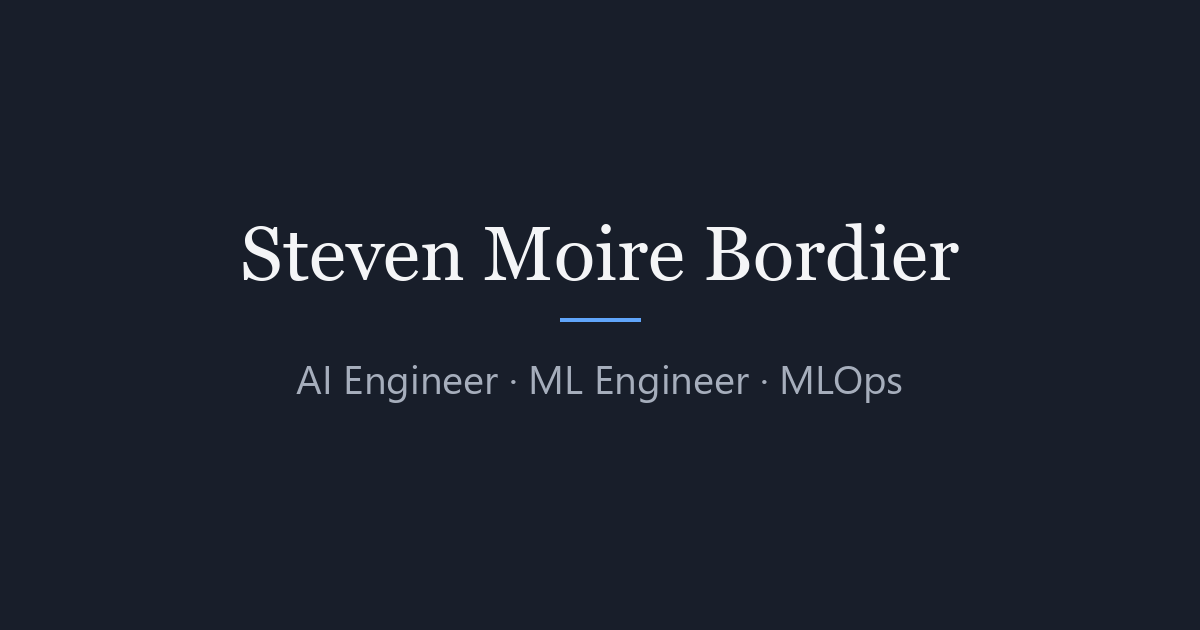
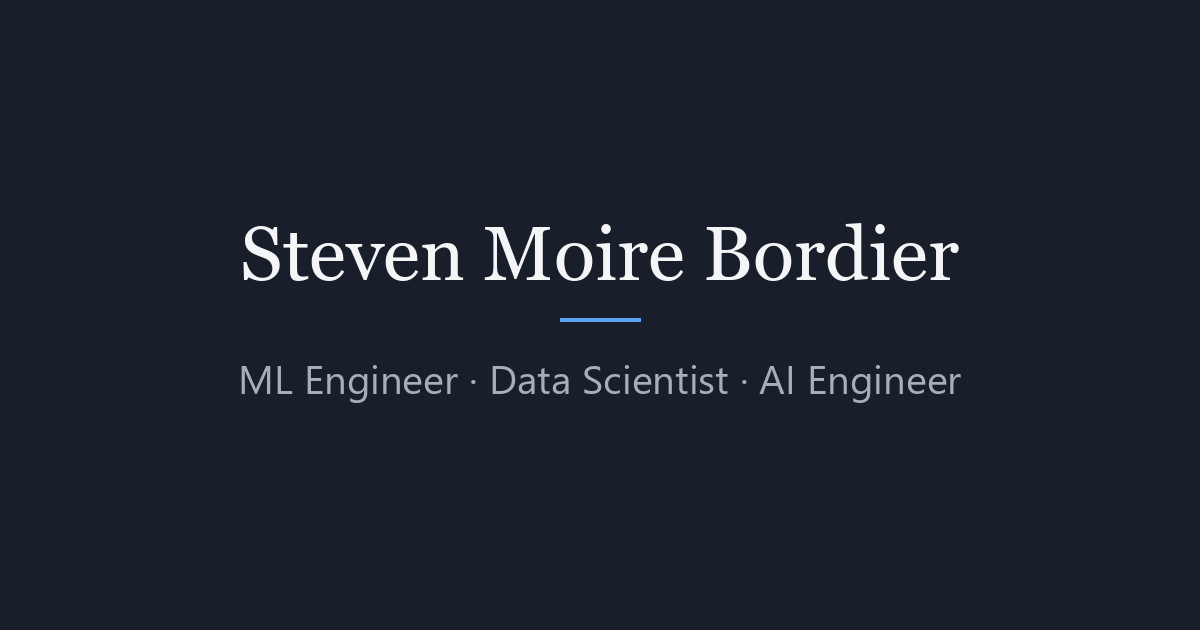
feat(about): background and teaching in my own words, new headline
- About and README: background and teaching paragraphs rewritten from my
  own answers (teaching to data, accounting/SQL, BTS SIO, business view,
  roles sought, why passing knowledge on matters), EN translation.
- Headline: ML Engineer · Data Scientist · AI Engineer (site tagline,
  About, README, social preview image, SEO description).
- Two remaining "X, not Y" constructions removed (GenAI 2023, GxP).

Changed region(s): [[0.185, 0.573, 0.8017, 0.6333]]

diff --git a/_tabs/about.md b/_tabs/about.md
@@ -25,7 +25,7 @@ html[data-lang="fr"] .lang-block.lang-fr { display: block; }
 <div class="lang-block lang-en" markdown="1">
 
 ## Steven Moire Bordier
-**AI Engineer · ML Engineer · MLOps**
+**ML Engineer · Data Scientist · AI Engineer**
 
 [steven.bordier@gmail.com](mailto:steven.bordier@gmail.com) · [LinkedIn](https://www.linkedin.com/in/steven-moirebordier-490556108/) · [GitHub](https://github.com/Steven-Moire)
 
@@ -33,11 +33,15 @@ html[data-lang="fr"] .lang-block.lang-fr { display: block; }
 
 ## Background
 
-Former teacher turned AI Engineer, with 2 years hands-on in a regulated industrial environment (GxP, pharmaceutical compliance). Projects shipped in production on an on-premise private cloud: a GxP document clustering tool and an LLM document-generation pipeline. Also a proof of concept for anomaly detection on cold-chain equipment.
+Former economics and management teacher who moved into data, with a pedagogical and andragogical mindset. I first went back to studying data analysis, which fits with economics and management. With my accounting and finance specialty, I had already done some SQL, and I taught students in a BTS SIO (a French IT services degree). I had also built my own PC and, when I was younger, done a bit of programming: so I went for it, because it really appealed to me and it fit with what I had done and with who I was.
 
-My background in education shapes how I approach technical work: I design for clarity, document my reasoning, and make architectural choices I can defend.
+Teaching first gives me the business side: the client or the company that hires me has a problem, and it has to be solved with performance in mind, which means effectiveness and efficiency. No point doing deep learning if a VBA macro is enough.
 
-**Available now** · open to AI Engineer, ML Engineer, MLOps roles.
+2 years as an apprentice in an international pharmaceutical group, in a regulated industrial environment (GxP, compliance). Projects shipped in production on an on-premise private cloud: a GxP document clustering tool and an LLM document-generation pipeline. Also a proof of concept for anomaly detection on cold-chain equipment.
+
+I am looking for a data scientist role, rather focused on model training. But during my apprenticeship I loved the whole architecture side, so I am also looking at AI engineer roles.
+
+**Available now** · open to ML Engineer, Data Scientist, AI Engineer roles.
 
 ---
 
@@ -53,7 +57,11 @@ My background in education shapes how I approach technical work: I design for cl
 
 ## Teaching & Knowledge Sharing
 
-Before data, I taught economics and management for 2 years, and I still teach, to adults now: presentations to teams on what AI is and what it is not, short workshops on computer vision and digital twins, and at group level two prompt-optimization workshops (~50 participants) and a webinar on Chinese LLMs (110 participants). The same habit shaped my projects: the performance gain of the document-generation pipeline came from user feedback, not from the model.
+Before data, I taught economics and management for 2 years, and I keep passing knowledge on: presentations to teams on what AI is and what it is not, short workshops on computer vision and digital twins, and at group level two prompt-optimization workshops (~50 participants) and a webinar on Chinese LLMs (110 participants).
+
+These are complex notions, sometimes disconnected from our everyday reality. I think we are living through a turning point, like the one we went through with the Internet. The goal is to support people, help them and make things understandable, because a tool that is not understood will not be adopted, and that can cause problems. It comes back to the business view.
+
+What struck me most was with high school students (10th grade) on internships: we talk about AI, but for them it stops at GPT and the technology is only 10 years old, when it actually dates back to the 1950s and is a rich field where you can do amazing things.
 
 ---
 
@@ -94,7 +102,7 @@ Before data, I taught economics and management for 2 years, and I still teach, t
 <div class="lang-block lang-fr" markdown="1">
 
 ## Steven Moire Bordier
-**AI Engineer · ML Engineer · MLOps**
+**ML Engineer · Data Scientist · AI Engineer**
 
 [steven.bordier@gmail.com](mailto:steven.bordier@gmail.com) · [LinkedIn](https://www.linkedin.com/in/steven-moirebordier-490556108/) · [GitHub](https://github.com/Steven-Moire)
 
@@ -102,11 +110,15 @@ Before data, I taught economics and management for 2 years, and I still teach, t
 
 ## Parcours
 
-Ancien enseignant reconverti dans la data, avec une vraie sensibilité pédagogique qui se retrouve dans ma façon d'aborder les problèmes techniques : expliquer le *pourquoi* avant le *comment*, documenter les choix d'architecture, rendre les décisions défendables.
+Ancien enseignant en économie-gestion reconverti dans la data, avec une sensibilité pédagogique et andragogique. J'ai d'abord repris des études en data analyse, ce qui est cohérent avec l'économie-gestion. Avec ma spécialité comptabilité-finance, j'avais fait du SQL, et j'ai enseigné à des élèves de BTS SIO (Services Informatiques aux Organisations). J'avais aussi monté mon propre PC et, plus jeune, fait un peu de programmation : je suis donc parti là-dessus, parce que ça me tentait bien et que ça collait avec ce que j'avais fait et avec qui j'étais.
+
+L'enseignement m'apporte d'abord le côté business : le client ou l'entreprise qui m'embauche a un problème, et il faut le résoudre en prenant en compte la performance, donc l'efficacité et l'efficience. On ne va pas faire du deep learning si une macro VBA suffit.
 
 2 ans d'alternance dans un groupe pharmaceutique international, en environnement industriel réglementé (GxP, compliance). Projets déployés en production sur un cloud privé on-premise : un outil de clustering de documents GxP, et un pipeline de génération documentaire par LLM. Également une preuve de concept de détection d'anomalies sur des équipements de chaîne du froid.
 
-**Disponible immédiatement** · ouvert aux postes AI Engineer, ML Engineer, MLOps.
+Je cherche un poste de data scientist, plutôt orienté entraînement de modèles. Mais pendant mon alternance, j'ai adoré tout le côté architecture : je regarde donc aussi du côté AI engineer.
+
+**Disponible immédiatement** · ouvert aux postes ML Engineer, Data Scientist, AI Engineer.
 
 ---
 
@@ -122,7 +134,11 @@ Ancien enseignant reconverti dans la data, avec une vraie sensibilité pédagogi
 
 ## Transmission et andragogie
 
-Avant la data, j'ai enseigné l'économie-gestion pendant 2 ans, et je continue de transmettre, à des adultes désormais : présentations aux équipes sur ce qu'est l'IA et ce qu'elle n'est pas, workshops courts sur la vision par ordinateur et les jumeaux numériques, et à l'échelle du groupe deux ateliers d'optimisation du prompting (~50 participants) et un webinaire sur les LLM chinois (110 participants). Le même réflexe a guidé mes projets : le gain de performance de la génération documentaire est venu des retours utilisateurs, pas du modèle.
+Avant la data, j'ai enseigné l'économie-gestion pendant 2 ans, et je continue de transmettre : présentations aux équipes sur ce qu'est l'IA et ce qu'elle n'est pas, workshops courts sur la vision par ordinateur et les jumeaux numériques, et à l'échelle du groupe deux ateliers d'optimisation du prompting (~50 participants) et un webinaire sur les LLM chinois (110 participants).
+
+On est sur des notions complexes, parfois déconnectées de notre réalité. Je pense qu'on vit un tournant, comme on en a vécu un avec Internet. Le but, c'est d'accompagner, d'aider et de faire comprendre, parce qu'un outil qui n'est pas compris ne sera pas adopté, et ça risque de poser problème. On revient à la vision business.
+
+Ce qui m'a le plus marqué, c'est avec les élèves de seconde en stage : on parle de l'IA, mais pour eux, ça s'arrête à GPT et la technologie n'a que 10 ans, alors qu'elle date des années 50 et que c'est un domaine riche, où l'on peut faire des choses folles.
 
 ---
 

diff --git a/README.md b/README.md
@@ -1,7 +1,7 @@
 > *"Ancien enseignant reconverti dans la data, parce que savoir faire, c'est bien. Savoir expliquer pourquoi, c'est mieux."*
 
 # Steven Moire Bordier
-### AI Engineer · ML Engineer · MLOps
+### ML Engineer · Data Scientist · AI Engineer
 
 [![Python](https://img.shields.io/badge/Python-3776AB?style=flat-square&logo=python&logoColor=white)](#)
 [![FastAPI](https://img.shields.io/badge/FastAPI-009688?style=flat-square&logo=fastapi&logoColor=white)](#)
@@ -16,9 +16,13 @@
 
 ## About
 
-Former teacher turned AI Engineer, with 2 years hands-on in a regulated industrial environment (GxP, pharmaceutical compliance). Projects shipped in production on an on-premise private cloud: a GxP document clustering tool and an LLM document-generation pipeline. Also a proof of concept for anomaly detection on cold-chain equipment.
+Former economics and management teacher who moved into data, with a pedagogical and andragogical mindset. I first went back to studying data analysis, which fits with economics and management. With my accounting and finance specialty, I had already done some SQL, and I taught students in a BTS SIO (a French IT services degree). I had also built my own PC and, when I was younger, done a bit of programming: so I went for it, because it really appealed to me and it fit with what I had done and with who I was.
 
-My background in education shapes how I approach technical work: I design for clarity, document my reasoning, and make architectural choices I can defend.
+Teaching first gives me the business side: the client or the company that hires me has a problem, and it has to be solved with performance in mind, which means effectiveness and efficiency. No point doing deep learning if a VBA macro is enough.
+
+2 years as an apprentice in an international pharmaceutical group, in a regulated industrial environment (GxP, compliance). Projects shipped in production on an on-premise private cloud: a GxP document clustering tool and an LLM document-generation pipeline. Also a proof of concept for anomaly detection on cold-chain equipment.
+
+I am looking for a data scientist role, rather focused on model training. But during my apprenticeship I loved the whole architecture side, so I am also looking at AI engineer roles.
 
 Status: Apprenticeship completed · Available now
 
@@ -42,7 +46,11 @@ Status: Apprenticeship completed · Available now
 
 ## Teaching & Knowledge Sharing
 
-Before data, I taught economics and management for 2 years, and I still teach, to adults now: presentations to teams on what AI is and what it is not, short workshops on computer vision and digital twins, and at group level two prompt-optimization workshops (~50 participants) and a webinar on Chinese LLMs (110 participants). The same habit shaped my projects: the performance gain of the document-generation pipeline came from user feedback, not from the model.
+Before data, I taught economics and management for 2 years, and I keep passing knowledge on: presentations to teams on what AI is and what it is not, short workshops on computer vision and digital twins, and at group level two prompt-optimization workshops (~50 participants) and a webinar on Chinese LLMs (110 participants).
+
+These are complex notions, sometimes disconnected from our everyday reality. I think we are living through a turning point, like the one we went through with the Internet. The goal is to support people, help them and make things understandable, because a tool that is not understood will not be adopted, and that can cause problems. It comes back to the business view.
+
+What struck me most was with high school students (10th grade) on internships: we talk about AI, but for them it stops at GPT and the technology is only 10 years old, when it actually dates back to the 1950s and is a rich field where you can do amazing things.
 
 ---
 
@@ -91,7 +99,7 @@ Before data, I taught economics and management for 2 years, and I still teach, t
 
 - [steven.bordier@gmail.com](mailto:steven.bordier@gmail.com)
 - [LinkedIn · Steven Moire Bordier](https://www.linkedin.com/in/steven-moirebordier-490556108/)
-- Open to AI Engineer · ML Engineer · MLOps roles · **Available now**
+- Open to ML Engineer · Data Scientist · AI Engineer roles · **Available now**
 
 ---
 

diff --git a/_posts/2023-11-07-Sujet-Data-Science.md b/_posts/2023-11-07-Sujet-Data-Science.md
@@ -40,7 +40,7 @@ Topics covered: role of the Data Analyst, data analysis in patient health monito
 
 ### What it shows
 
-Early familiarity with generative AI tooling when it was still genuinely experimental. At the time, figuring out how to prompt these tools, chain their outputs, and integrate them into a coherent presentation required actual problem-solving, not just clicking "generate."
+Early familiarity with generative AI tooling when it was still genuinely experimental. At the time, figuring out how to prompt these tools, chain their outputs, and integrate them into a coherent presentation required actual problem-solving.
 
 *Looking back: this is where the instinct to reach for AI tools as a first-class option came from.*
 
@@ -77,7 +77,7 @@ Sujets traités : rôle du Data Analyst, analyse de données dans le suivi de la
 
 ### Ce que ça montre
 
-Familiarisation précoce avec les outils GenAI quand ils étaient encore genuinement expérimentaux. À l'époque, savoir prompter ces outils, chaîner leurs sorties et les intégrer dans une présentation cohérente demandait une vraie résolution de problèmes, pas juste cliquer sur "générer".
+Familiarisation précoce avec les outils GenAI quand ils étaient encore véritablement expérimentaux. À l'époque, savoir prompter ces outils, chaîner leurs sorties et les intégrer dans une présentation cohérente demandait une vraie résolution de problèmes.
 
 *Avec le recul : c'est là qu'est né le réflexe de considérer les outils IA comme option de premier rang.*
 

diff --git a/_posts/2026-01-15-gxp-document-intelligence.md b/_posts/2026-01-15-gxp-document-intelligence.md
@@ -84,7 +84,7 @@ The LLM (Mistral 7B, downloaded from Hugging Face) is called by the other micros
 
 ### Why HDBSCAN over K-Means
 
-K-Means requires you to specify `k` (the number of clusters) upfront. In a document rationalization context, the number of meaningful topic groups is unknown and should emerge from the data, not be imposed on it.
+K-Means requires you to specify `k` (the number of clusters) upfront. In a document rationalization context, the number of meaningful topic groups is unknown and has to be found in the data.
 
 HDBSCAN:
 - Discovers clusters of arbitrary shape and density
@@ -198,7 +198,7 @@ Le LLM (Mistral 7B, téléchargé depuis Hugging Face) est appelé par les autre
 
 ### Pourquoi HDBSCAN et pas K-Means
 
-K-Means exige de spécifier `k` à l'avance. Dans un contexte de rationalisation documentaire, le nombre de groupes thématiques pertinents est inconnu et doit émerger des données, pas être imposé.
+K-Means exige de spécifier `k` à l'avance. Dans un contexte de rationalisation documentaire, le nombre de groupes thématiques pertinents est inconnu et doit être trouvé dans les données.
 
 HDBSCAN :
 - Découvre des clusters de forme et densité arbitraires
